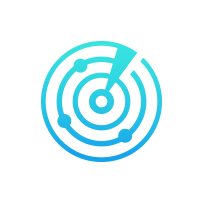
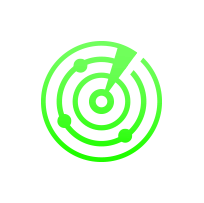
UPDATE: Bionic screen indicator now changes color and rotation

Changed region(s): [[0.1765, 0.1773, 0.7941, 0.798]]

diff --git a/src/Components/ScanViewer/2DPlotNew.js b/src/Components/ScanViewer/2DPlotNew.js
@@ -92,7 +92,7 @@ class Plot extends Component {
     const height = this.refs.canvasHolder.clientHeight;
     this.scene = new THREE.Scene();
     this.camera = new THREE.OrthographicCamera(-0.50, 0.50, 0.50, -0.50, -10, 10);
-    this.renderer = new THREE.WebGLRenderer({ antialias: false });
+    this.renderer = new THREE.WebGLRenderer({ antialias: false, precision: "lowp" });
     this.renderer.setSize(width, height);
     this.refs.canvasHolder.appendChild(this.renderer.domElement);
     this.initializeCamera();
@@ -104,7 +104,7 @@ class Plot extends Component {
 
   drawPlot = () => {
     this.setState({ waiting: true })
-    const interpolatedMatrix = (Interpolation(this.normalizedArr, 2))
+    const interpolatedMatrix = (Interpolation(this.normalizedArr, 1))
     this.plotGeometry = new THREE.PlaneGeometry(1, 1, interpolatedMatrix[0].length - 1, interpolatedMatrix.length - 1);
     let sutun = 0
     let satir = 0
@@ -121,6 +121,7 @@ class Plot extends Component {
     this.material = new THREE.MeshBasicMaterial({ color: 0xffffff, wireframe: false, vertexColors: THREE.VertexColors });
     this.graphMesh = new THREE.Mesh(this.plotGeometry, this.material);
     this.scene.add(this.graphMesh);
+    this.renderer.render(this.scene, this.camera);
     this.setState({ waiting: false })
   }
 
@@ -208,7 +209,8 @@ class Plot extends Component {
       }
       // if (e.color.g > 0.67)
     })
-    this.renderPlot();
+    this.renderer.render(this.scene, this.camera);
+    console.log("filter processing")
     this.setState({ waiting: false })
   }
 
@@ -220,50 +222,48 @@ class Plot extends Component {
   moveSelectedBox = (x, y) => {
     this.selectedBox.position.x = - 0.5 + x * ((1 / (this.data[0].length) * 4))
     this.selectedBox.position.y = 0.5 - y * (1 / (this.data.length - 1))
-
-    this.renderPlot()
   }
 
   componentDidUpdate(prevProps, prevState, snapshot) {
-    console.log("2d plot update component")
-
     if ((prevProps.selectedBoxPosition.width !== this.props.selectedBoxPosition.width) || (prevProps.selectedBoxPosition.height !== this.props.selectedBoxPosition.height)) {
       this.moveSelectedBox(this.props.selectedBoxPosition.width, this.props.selectedBoxPosition.height)
-    }
-
-    let c = 0
-    
-    const rerender = setInterval(() => {
       this.renderer.render(this.scene, this.camera);
-      c++;
-      if (c === 15)
-        clearInterval(rerender )
-    }, 5);
+      return
+    }
+
+    if ((prevProps.filter !== this.props.filter) && this.props.filter === true) {
+      console.log("filter on")
+      this.filterGreens()
+      return
+    }
+    else if ((prevProps.filter !== this.props.filter) && this.props.filter === false) {
+      console.log("filter off")
+      this.drawPlot()
+      this.renderer.render(this.scene, this.camera);
+      return
+    }
+
+
+    if (prevProps.grid !== this.props.grid) {
+      this.showHideGrid(prevProps.grid)
+      this.renderer.render(this.scene, this.camera);
+      return
+    }
+
   }
 
-  UNSAFE_componentWillReceiveProps(nextProps){
-    if(nextProps.filter === true){
-      this.filterGreens()
-    }
-    else if(nextProps.filter === false){
-      this.drawPlot()
-    }
-    if (nextProps.grid !== this.props.grid) {
-      this.showHideGrid(this.props.grid)
-    }
-  }
 
   render() {
     return (
       <div className="plot">
-        {
+        {/* {
           this.state.waiting ?
             <div className="plot-preloader">
               <img alt= "sc" src={SandClock}></img>
             </div>
             :
             null
-        }
+        } */}
 
         <div className="canvas-container-sv" ref="canvasHolder">  </div>
       </div>

diff --git a/src/Components/ScanModes/Bionic/Bionic.js b/src/Components/ScanModes/Bionic/Bionic.js
@@ -32,7 +32,7 @@ class Bionic extends Component {
       this.refs.bionic.style.opacity = 1
     }, 20);
     this.testInterval = setInterval(() => {
-      socketHelper.send('Q')
+      socketHelper.send('J')
     }, 60);
   }
 
@@ -48,22 +48,22 @@ class Bionic extends Component {
         case 'right':
           tmpCursorIndex++
           break
-          case 'up':
-            if (this.state.cursorIndex % 4 === 2) {
-              tmpSensitivity += 5
-            }
-            else if (this.state.cursorIndex % 4 === 1) {
-              tmpGain += 5
-            }
-            break;
-          case 'down':
-            if (this.state.cursorIndex % 4 === 2) {
-              tmpSensitivity -= 5
-            }
-            else if (this.state.cursorIndex % 4 === 1) {
-              tmpGain -= 5
-            }
-            break;
+        case 'up':
+          if (this.state.cursorIndex % 4 === 2) {
+            tmpSensitivity += 5
+          }
+          else if (this.state.cursorIndex % 4 === 1) {
+            tmpGain += 5
+          }
+          break;
+        case 'down':
+          if (this.state.cursorIndex % 4 === 2) {
+            tmpSensitivity -= 5
+          }
+          else if (this.state.cursorIndex % 4 === 1) {
+            tmpGain -= 5
+          }
+          break;
         case 'ok':
 
           return
@@ -84,9 +84,9 @@ class Bionic extends Component {
         gain: tmpGain
       })
     }
-    else if (socketData.type === 'sensor') {
+    else if (socketData.type === 'bionic') {
       this.setState({
-        sensorData: socketData.payload
+        sensorData: parseInt(socketData.payload)
       })
     }
   }
@@ -106,7 +106,7 @@ class Bionic extends Component {
         </div>
 
         <div className="rotating-indicator-container">
-          <img ref="Rotator" className="rotator" src={Bionic_Rotator} alt="rotator" />
+          <img ref="Rotator" className="rotator" src={Bionic_Rotator} alt="rotator"  style={{transform: `rotate(${this.state.sensorData * 1.4 - 20}deg)`, filter: `hue-rotate(${-this.state.sensorData / 2 - 30}deg)`}}/>
         </div>
 
         <div className="line-chart">
@@ -114,6 +114,7 @@ class Bionic extends Component {
         </div>
 
         <div className={`dial gain-dial ${(this.state.cursorIndex % 4 === 1) ? "selected" : ""}`}>
+          <span>{this.state.gain}</span>
           <CircularProgressbar
             value={this.state.gain}
             text="Gain"
@@ -130,6 +131,7 @@ class Bionic extends Component {
         </div>
 
         <div className={`dial sens-dial ${(this.state.cursorIndex % 4 === 2) ? "selected" : ""}`}>
+          <span>{this.state.sensitivity}</span>
           <CircularProgressbar
             value={this.state.sensitivity}
             text="Sensitivity"

diff --git a/src/Components/ScanModes/Bionic/LineChat.js b/src/Components/ScanModes/Bionic/LineChat.js
@@ -4,22 +4,19 @@ class LineChart extends Component {
   constructor(props) {
     super(props)
     this.state = {
-      sensorValue: 255
+      value: 255
     }
 
-    this.lines = new Array(37)
+    this.lines = new Array(23)
     for (let index = 0; index < this.lines.length; index++) {
-      this.lines[index] = Math.trunc(Math.sin(index * 0.085) * this.state.sensorValue * (65 / 255))
+      this.lines[index] = Math.trunc(this.props.value * (Math.sin(index * 0.14)) / 4 + Math.random() * 8)
     }
   }
 
-  componentDidMount() {
-    // console.log(this.lines)
-  }
 
   componentDidUpdate() {
     for (let index = 0; index < this.lines.length; index++) {
-      this.lines[index] = Math.trunc(Math.sin(index * 0.085) * this.props.value * (65 / 255) + Math.random() *8)
+      this.lines[index] = Math.trunc(this.props.value * (Math.sin(index * 0.14)) / 4 + Math.random() * 8)
     }
   }
 
@@ -28,8 +25,8 @@ class LineChart extends Component {
       <svg width="600" height="80" xmlns="http://www.w3.org/2000/svg">
         <defs>
           <linearGradient spreadMethod="pad" y2="1" x2="0" y1="0" x1="0" id="svg_38">
-            <stop offset="0" stopColor={`#ff${(255 - this.props.value).toString(16)}00ff`} />
-            <stop offset="1" stopColor="#00ff0000" />
+            <stop offset="0" stopColor={`#ff7700ff`} />
+            <stop offset="1" stopColor="#00ff00ff" />
           </linearGradient>
         </defs>
         <g>
@@ -37,7 +34,7 @@ class LineChart extends Component {
           {
             this.lines.map((e, i) => {
               return (
-                <rect key={i} id={`svg_${i}`} height={e} width="10" y={7.5 + (65 - e)} x={11.8 + i * 16} fill="url(#svg_38)" />
+                <rect key={i} id={`svg_${i}`} height={e} width="13" y={7.5 + (65 - e)} x={30 + i * 24} fill="url(#svg_38)" />
               )
             })
           }

diff --git a/src/Components/ScanModes/Bionic/Bionic.css b/src/Components/ScanModes/Bionic/Bionic.css
@@ -55,7 +55,7 @@
 .rotating-indicator-container .rotator{
   width: 200px;
   height: 200px;
-  animation: spin-full linear infinite;
+  /* animation: spin-full linear infinite; */
   animation-duration: 4s;
 }
 
@@ -76,7 +76,7 @@
 }
 
 .bionic rect{
-  transition: all 0.2s;
+  transition: all 0.1s;
 }
 
 .dial{
@@ -101,4 +101,13 @@
 .bionic .sens-dial{
   position: absolute;
   right: 80px;
+}
+
+.dial span{
+  position: absolute;
+  color: black;
+  font-size: 25px;
+  text-align: center;
+  left: 65px;
+  top: 100px
 }

diff --git a/src/App.js b/src/App.js
@@ -62,7 +62,7 @@ class App extends Component {
         this.setState({
           ready: true,
           currentLanguage: settings['language'] || 'en',
-          activeScreen: settings['setupCompleted'] ? "groundScanMethodSelectionScreen" : "setupScreen",
+          activeScreen: settings['setupCompleted'] ? "bionicScreen" : "setupScreen",
           generalVolume: settings['generalVolume'] || 100
         })
       })

diff --git a/src/Components/SensorControl/ControlMagnetometer.js b/src/Components/SensorControl/ControlMagnetometer.js
@@ -18,11 +18,11 @@ class ControlMagnetometer extends Component {
   }
 
   componentDidMount() {
-/*     setTimeout(() => {
-      //this.refs.video.playbackRate = 4; 
-      
+    setTimeout(() => {
+      this.refs.video.playbackRate = 4;
+
       // this.refs.video.pause();
-    }, 300); */
+    }, 300);
     switch (this.props.target) {
       case "liveStreamScreen":
         this.setState({ src: LiveStremVideo })

diff --git a/src/Components/FileList/FileList.css b/src/Components/FileList/FileList.css
@@ -56,7 +56,6 @@
   box-shadow: 0px 0px 5px 0px rgba(0, 0, 0, 0.75);
   border-radius: 10px;
   border: 2px solid #9f7928;
-  animation: fileListPopupAnim 580ms;
 }
 
 .file-list-popup .question {
